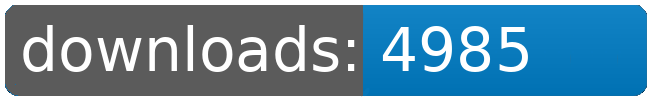
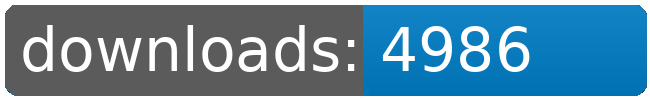
dl log written

Changed region(s): [[0.7692, 0.24, 0.8308, 0.72]]

diff --git a/README.md b/README.md
@@ -43,8 +43,8 @@
 		<td>4900</td>
 		<td>4935</td>
 		<td>4964</td>
-		<td>4985</td>
-		<td>+ 21</td>
+		<td>4986</td>
+		<td>+ 22</td>
 	</tr>
 	<tr>
 		<td>Jaws</td>
@@ -109,8 +109,8 @@
 		<td></td>
 		<td></td>
 		<td></td>
-		<td>33126</td>
-		<td>148</td>
+		<td>33127</td>
+		<td>149</td>
 	</tr>
 </table>
 </sub></sup>
@@ -135,8 +135,8 @@
 		<td>4900</td>
 		<td>4935</td>
 		<td>4964</td>
-		<td>4985</td>
-		<td>+ 21</td>
+		<td>4986</td>
+		<td>+ 22</td>
 	</tr>
 	<tr>
 		<td>Louise.Conglomerate.Shipyards</td>
@@ -223,8 +223,8 @@
 		<td></td>
 		<td></td>
 		<td></td>
-		<td>33126</td>
-		<td>148</td>
+		<td>33127</td>
+		<td>149</td>
 	</tr>
 </table>
 </sub></sup>
